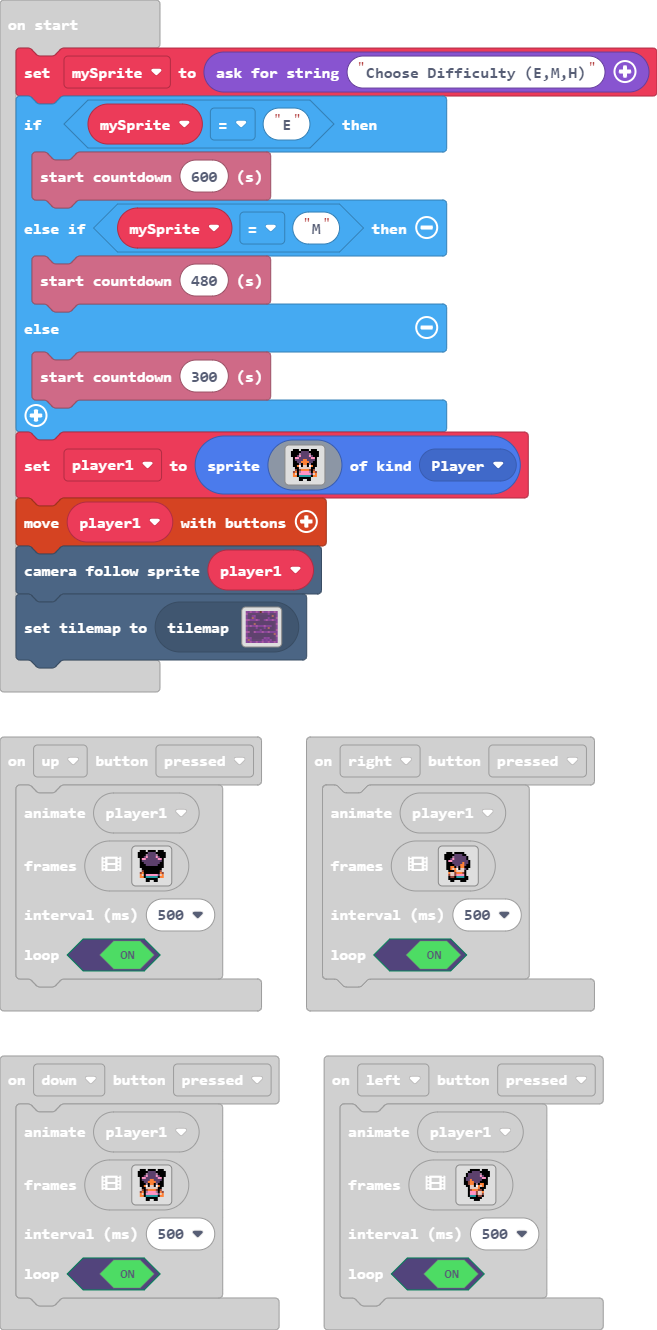
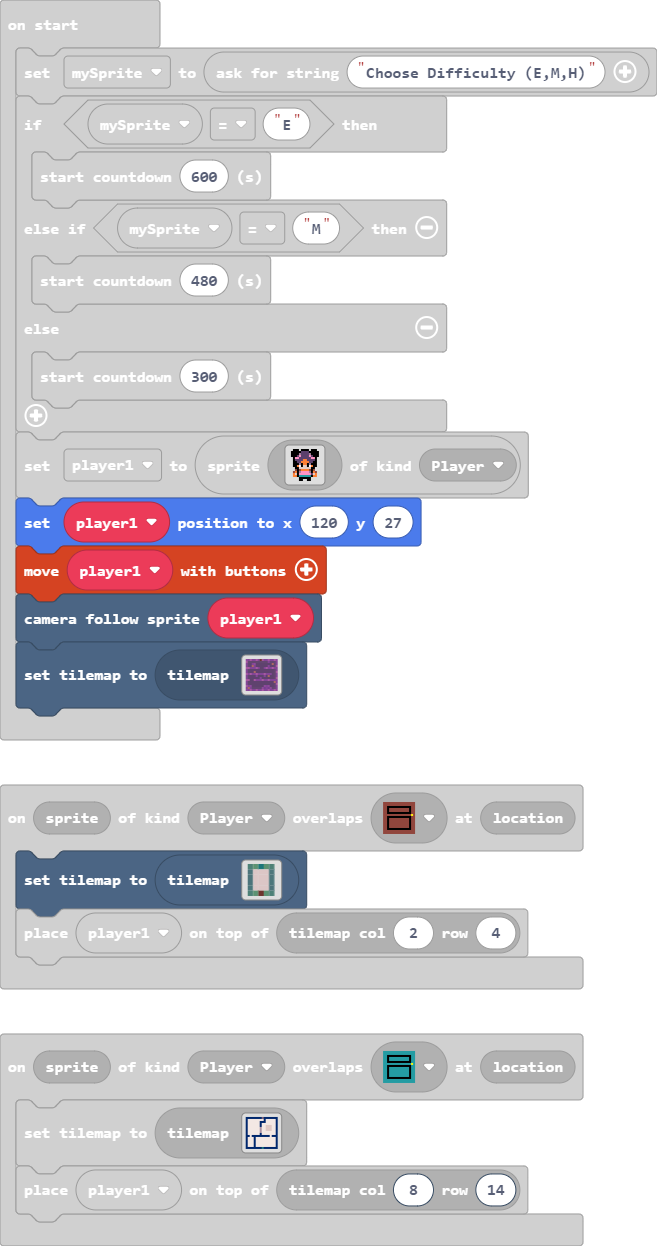
Edited tile maps

diff --git a/main.ts b/main.ts
@@ -58,7 +58,7 @@ controller.up.onEvent(ControllerButtonEvent.Pressed, function () {
     )
 })
 scene.onOverlapTile(SpriteKind.Player, assets.tile`myTile`, function (sprite, location) {
-    tiles.setCurrentTilemap(tilemap`level3`)
+    tiles.setCurrentTilemap(tilemap`level5`)
     tiles.placeOnTile(player1, tiles.getTileLocation(2, 4))
 })
 controller.left.onEvent(ControllerButtonEvent.Pressed, function () {
@@ -245,7 +245,7 @@ controller.down.onEvent(ControllerButtonEvent.Pressed, function () {
 })
 scene.onOverlapTile(SpriteKind.Player, assets.tile`myTile2`, function (sprite, location) {
     tiles.setCurrentTilemap(tilemap`level3`)
-    tiles.placeOnTile(player1, tiles.getTileLocation(2, 4))
+    tiles.placeOnTile(player1, tiles.getTileLocation(8, 14))
 })
 let player1: Sprite = null
 let mySprite = game.askForString("Choose Difficulty (E,M,H)")
@@ -274,6 +274,7 @@ player1 = sprites.create(img`
     . . . . f f f f f f . . . . 
     . . . . f f . . f f . . . . 
     `, SpriteKind.Player)
+player1.setPosition(120, 27)
 controller.moveSprite(player1)
 scene.cameraFollowSprite(player1)
 tiles.setCurrentTilemap(tilemap`level1`)

diff --git a/tilemap.g.ts b/tilemap.g.ts
@@ -101,6 +101,15 @@ namespace myTiles {
 2 . . . 2 . . . . . . . . . . 2 
 2 2 2 2 2 2 2 2 . 2 2 2 2 2 2 2 
 `, [myTiles.transparency16,myTiles.tile5,myTiles.tile6,myTiles.tile9,myTiles.tile10,sprites.dungeon.floorLight3,sprites.dungeon.floorLight2], TileScale.Sixteen);
+            case "level5":
[1 lines of base64/hex data omitted]
+2 2 . 2 2 
+2 . . . 2 
+2 . . . 2 
+2 . . . 2 
+2 . . . 2 
+2 2 . 2 2 
+`, [myTiles.transparency16,myTiles.tile2,myTiles.tile4,sprites.dungeon.greenOuterEast0,sprites.dungeon.greenOuterWest1,sprites.dungeon.greenOuterEast1,sprites.dungeon.greenOuterWest0,sprites.dungeon.greenOuterSouthEast,sprites.dungeon.greenOuterSouthWest,sprites.dungeon.greenOuterNorthEast,sprites.dungeon.greenOuterSouth2,sprites.dungeon.greenOuterNorth2,sprites.dungeon.greenOuterNorthWest,sprites.dungeon.floorLight0], TileScale.Sixteen);
         }
         return null;
     })
